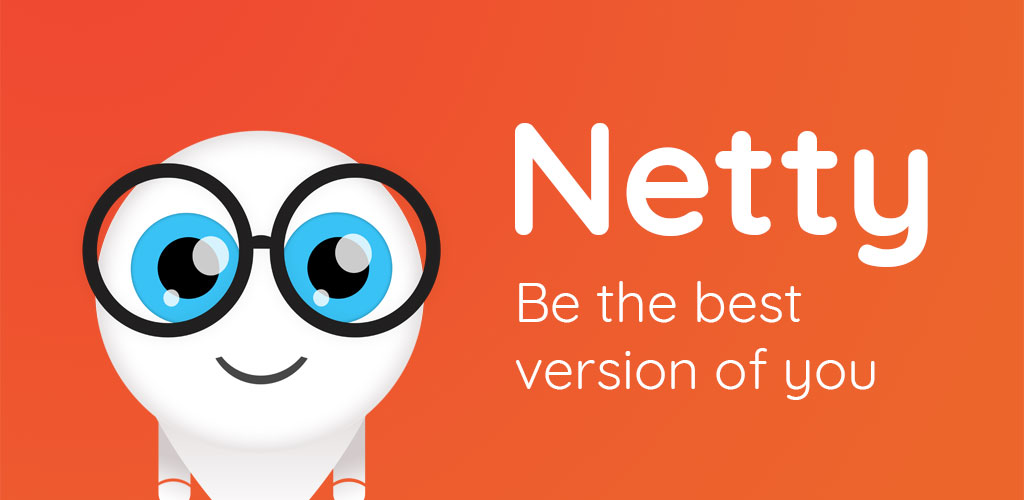
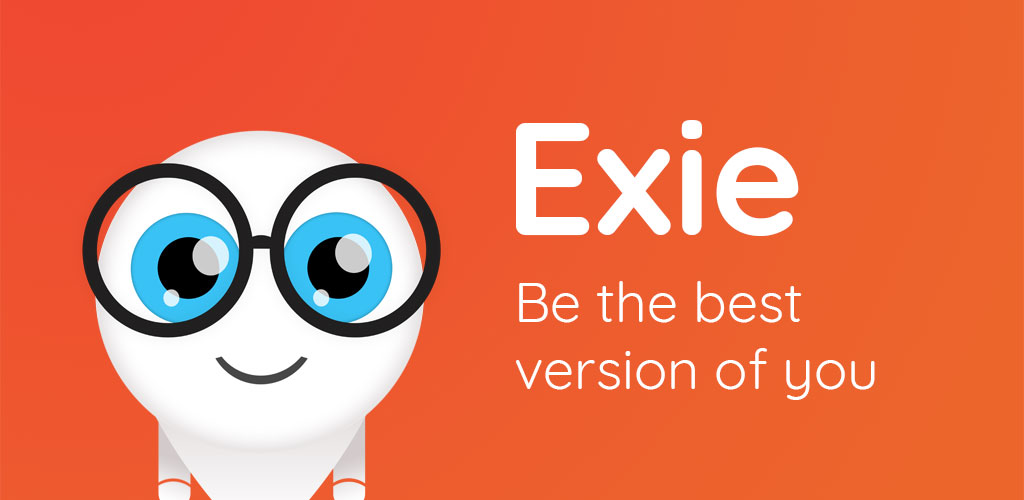
update assets

Changed region(s): [[0.5, 0.24, 0.9062, 0.54]]

diff --git a/README.md b/README.md
@@ -1,6 +1,6 @@
 # Exie App
 
-![Exie Banner](https://i.imgur.com/9hjOCRZ.jpg)
+![Exie Banner](https://i.imgur.com/GGbRymm.jpg)
 
 This repo contains the two native IOS and Android apps for Exie - built with [Flutter](https://flutter.io)
 
